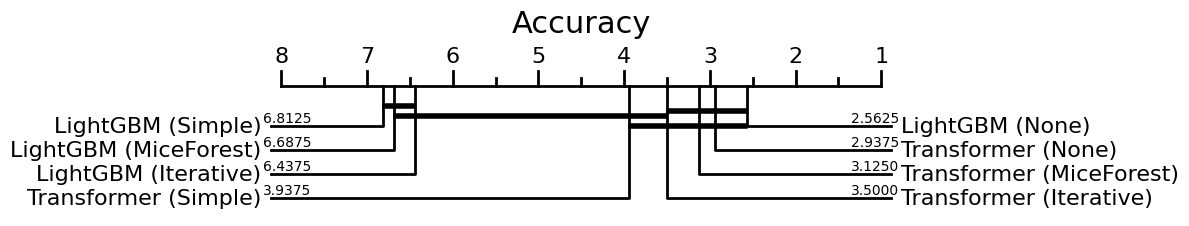
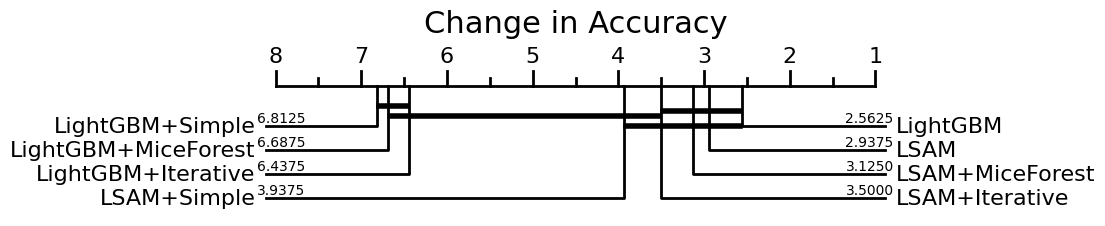
cd-diagram edits

diff --git a/cd-diagram/run_diagram.py b/cd-diagram/run_diagram.py
@@ -3,7 +3,6 @@ from main import draw_cd_diagram
 import itertools
 import os
 
-missingness = "MNAR"
 for missingness in ["MNAR", "MAR", "MCAR"]:
     raw = pd.read_pickle('../results/openml/openml_results.pickle').dropna()
     raw = raw.set_index((" ", " ", "Dataset"))
@@ -17,13 +16,76 @@ for missingness in ["MNAR", "MAR", "MCAR"]:
     print(raw.index)
 
     for r in list(itertools.product(["Transformer", "LightGBM"], ["None", "Simple", "Iterative", "MiceForest"], raw.index)):
-        df_perf['classifier_name'].append(r[0] + " (" + r[1] + ")")
+        name = "LSAM" if r[0] == "Transformer" else "LightGBM"
+        if r[1] == "None":
+            df_perf['classifier_name'].append(name)
+        else:
+            df_perf['classifier_name'].append(name + "+" + r[1])
         df_perf['dataset_name'].append(r[2])
         df_perf['accuracy'].append(-float(raw.loc[r[2]][missingness][r[1]][r[0]]))
 
     df_perf = pd.DataFrame(df_perf)
     print(df_perf)
-    draw_cd_diagram(df_perf=df_perf, title='Accuracy', labels=True)
+    draw_cd_diagram(df_perf=df_perf, title='Change in Accuracy', labels=True)
 
 
     os.rename("./cd-diagram.png", "./{}/cd-diagram.png".format(missingness.lower()))
+
+for missingness in ["MNAR", "MAR", "MCAR"]:
+    raw = pd.read_pickle('../results/openml/openml_results.pickle').dropna()
+    raw = raw.set_index((" ", " ", "Dataset"))
+    # build 3 column input dataframe
+    df_perf = {
+        'classifier_name':[],
+        'dataset_name':[],
+        'accuracy':[]
+    }
+
+    print(raw.index)
+
+    for r in list(itertools.product(["Transformer"], ["None", "Simple", "Iterative", "MiceForest"], raw.index)):
+        name = "LSAM" if r[0] == "Transformer" else "LightGBM"
+        if r[1] == "None":
+            df_perf['classifier_name'].append(name)
+        else:
+            df_perf['classifier_name'].append(name + "+" + r[1])
+        df_perf['dataset_name'].append(r[2])
+        df_perf['accuracy'].append(-float(raw.loc[r[2]][missingness][r[1]][r[0]]))
+
+    df_perf = pd.DataFrame(df_perf)
+    print(df_perf)
+    draw_cd_diagram(df_perf=df_perf, title='Change in Accuracy', labels=True)
+
+
+    os.rename("./cd-diagram.png", "./{}/cd-diagram-lsam.png".format(missingness.lower()))
+
+for missingness in ["MNAR", "MAR", "MCAR"]:
+    raw = pd.read_pickle('../results/openml/openml_results.pickle').dropna()
+    raw = raw.set_index((" ", " ", "Dataset"))
+    # build 3 column input dataframe
+    df_perf = {
+        'classifier_name':[],
+        'dataset_name':[],
+        'accuracy':[]
+    }
+
+    print(raw.index)
+
+    for r in list(itertools.product(["Transformer", "LightGBM"], ["None", "Simple", "Iterative", "MiceForest"], raw.index)):
+        if (r[0] == "Transformer" and r[1] == "None") or (r[0] == "LightGBM" and r[1] != "None"):
+            name = "LSAM" if r[0] == "Transformer" else "LightGBM"
+            if r[1] == "None":
+                df_perf['classifier_name'].append(name)
+            else:
+                df_perf['classifier_name'].append(name + "+" + r[1])
+            df_perf['dataset_name'].append(r[2])
+            df_perf['accuracy'].append(-float(raw.loc[r[2]][missingness][r[1]][r[0]]))
+
+    df_perf = pd.DataFrame(df_perf)
+    print(df_perf)
+    draw_cd_diagram(df_perf=df_perf, title='Change in Accuracy', labels=True)
+
+
+    os.rename("./cd-diagram.png", "./{}/cd-diagram-lgbm.png".format(missingness.lower()))
+
+
